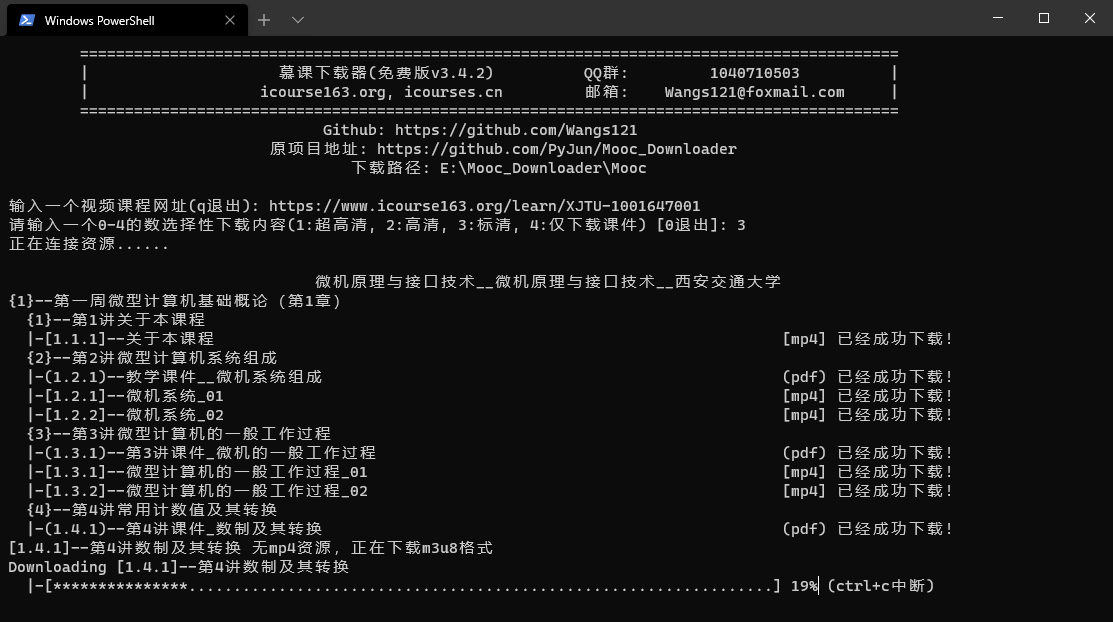
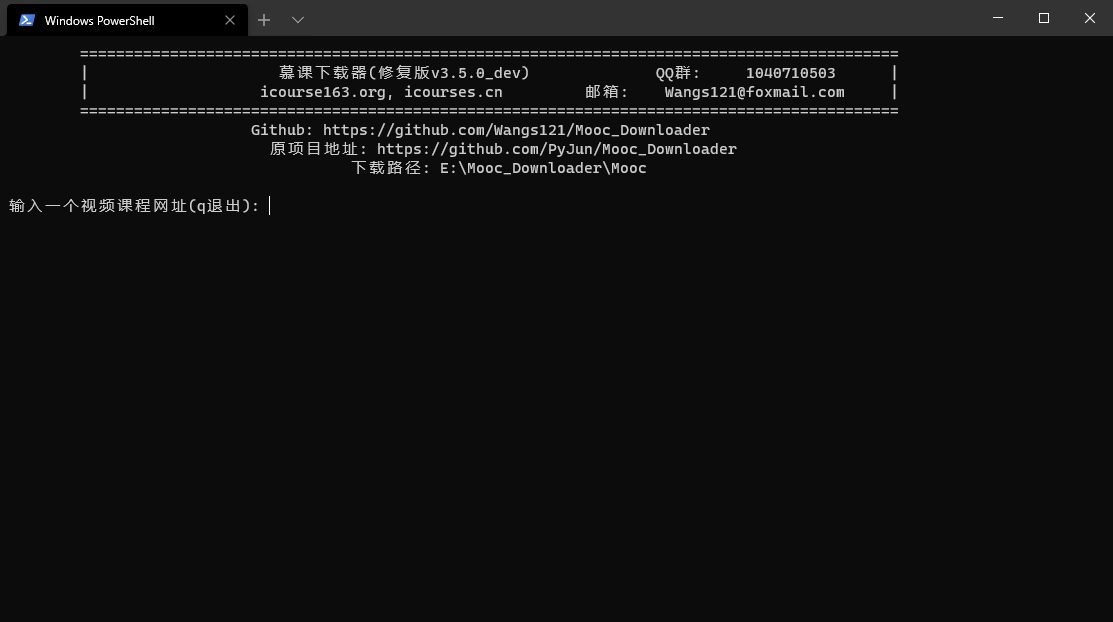
添加了说明

diff --git a/Mooc/Mooc_Interface.py b/Mooc/Mooc_Interface.py
@@ -31,7 +31,7 @@ def mooc_interface():
         while True:
             os.system("cls")
             print("\t"+"="*91)
-            print('\t|\t\t      慕课下载器(免费版v3.4.2)      \tQQ群: {:^27s} |'.format(__QQgroup__))
+            print('\t|\t\t      慕课下载器(修复版v3.5.0_dev)      \tQQ群: {:^19s} |'.format(__QQgroup__))
             print("\t|\t\t    icourse163.org, icourses.cn    \t邮箱: {:^27s} |".format(__email__))
             print("\t"+"="*91)
             print("\t{:^90}".format("Github: https://github.com/Wangs121/Mooc_Downloader"))
@@ -89,10 +89,10 @@ def mooc_interface():
                     return
     except KeyboardInterrupt:
         input("程序退出...")
-    finally:
-        if (input("\n小哥哥，小姐姐，打个赏再走呗 …(⊙_⊙)… [y/n]: ") != 'n'):
-            os.startfile(alipay_path)
-        os.system("pause")
+    #finally:
+    #    if (input("\n小哥哥，小姐姐，打个赏再走呗 …(⊙_⊙)… [y/n]: ") != 'n'):
+    #        os.startfile(alipay_path)
+    #    os.system("pause")
 
 def inquire():
     redown = None

diff --git a/README.md b/README.md
@@ -1,12 +1,24 @@
 ### 				基于Python 爬虫的慕课视频下载
 
+#### 修改说明
+
+* 修复了aria2c 错误代码 22
+
+* 无限速
+
+* 修复了不能下载视频的问题
+
+* 增加了无mp4格式视频时下载m3u8格式视频并转换为mp4功能（ffmpeg）
+
+  
+
 ##### 1.  项目简介：
 
 - 项目环境为 Windows10,  Python3
 - 用 Python3.6 urllib3 和requests模块爬虫
 - 支持Mooc视频，字幕，课件下载，课程以目录树形式下载到硬盘，支持Potplayer播放
 - 支持中国大学慕课和爱课程二大慕课网站的视频课程下载，核心下载调用 Aria2c
-- 无mp4资源自动下载m3u8格式补充，使用ffmpeg自动转换为mp4
+- 无mp4资源自动下载m3u8格式补充，使用ffmpeg自动转换为mp4**（增加内容）**
 - 有关下载器的使用以及相关问题，点击查看[Mooc下载器帮助文档](https://github.com/PyJun/Mooc_Downloader/wiki)
 
 ##### 2. 功能演示：
